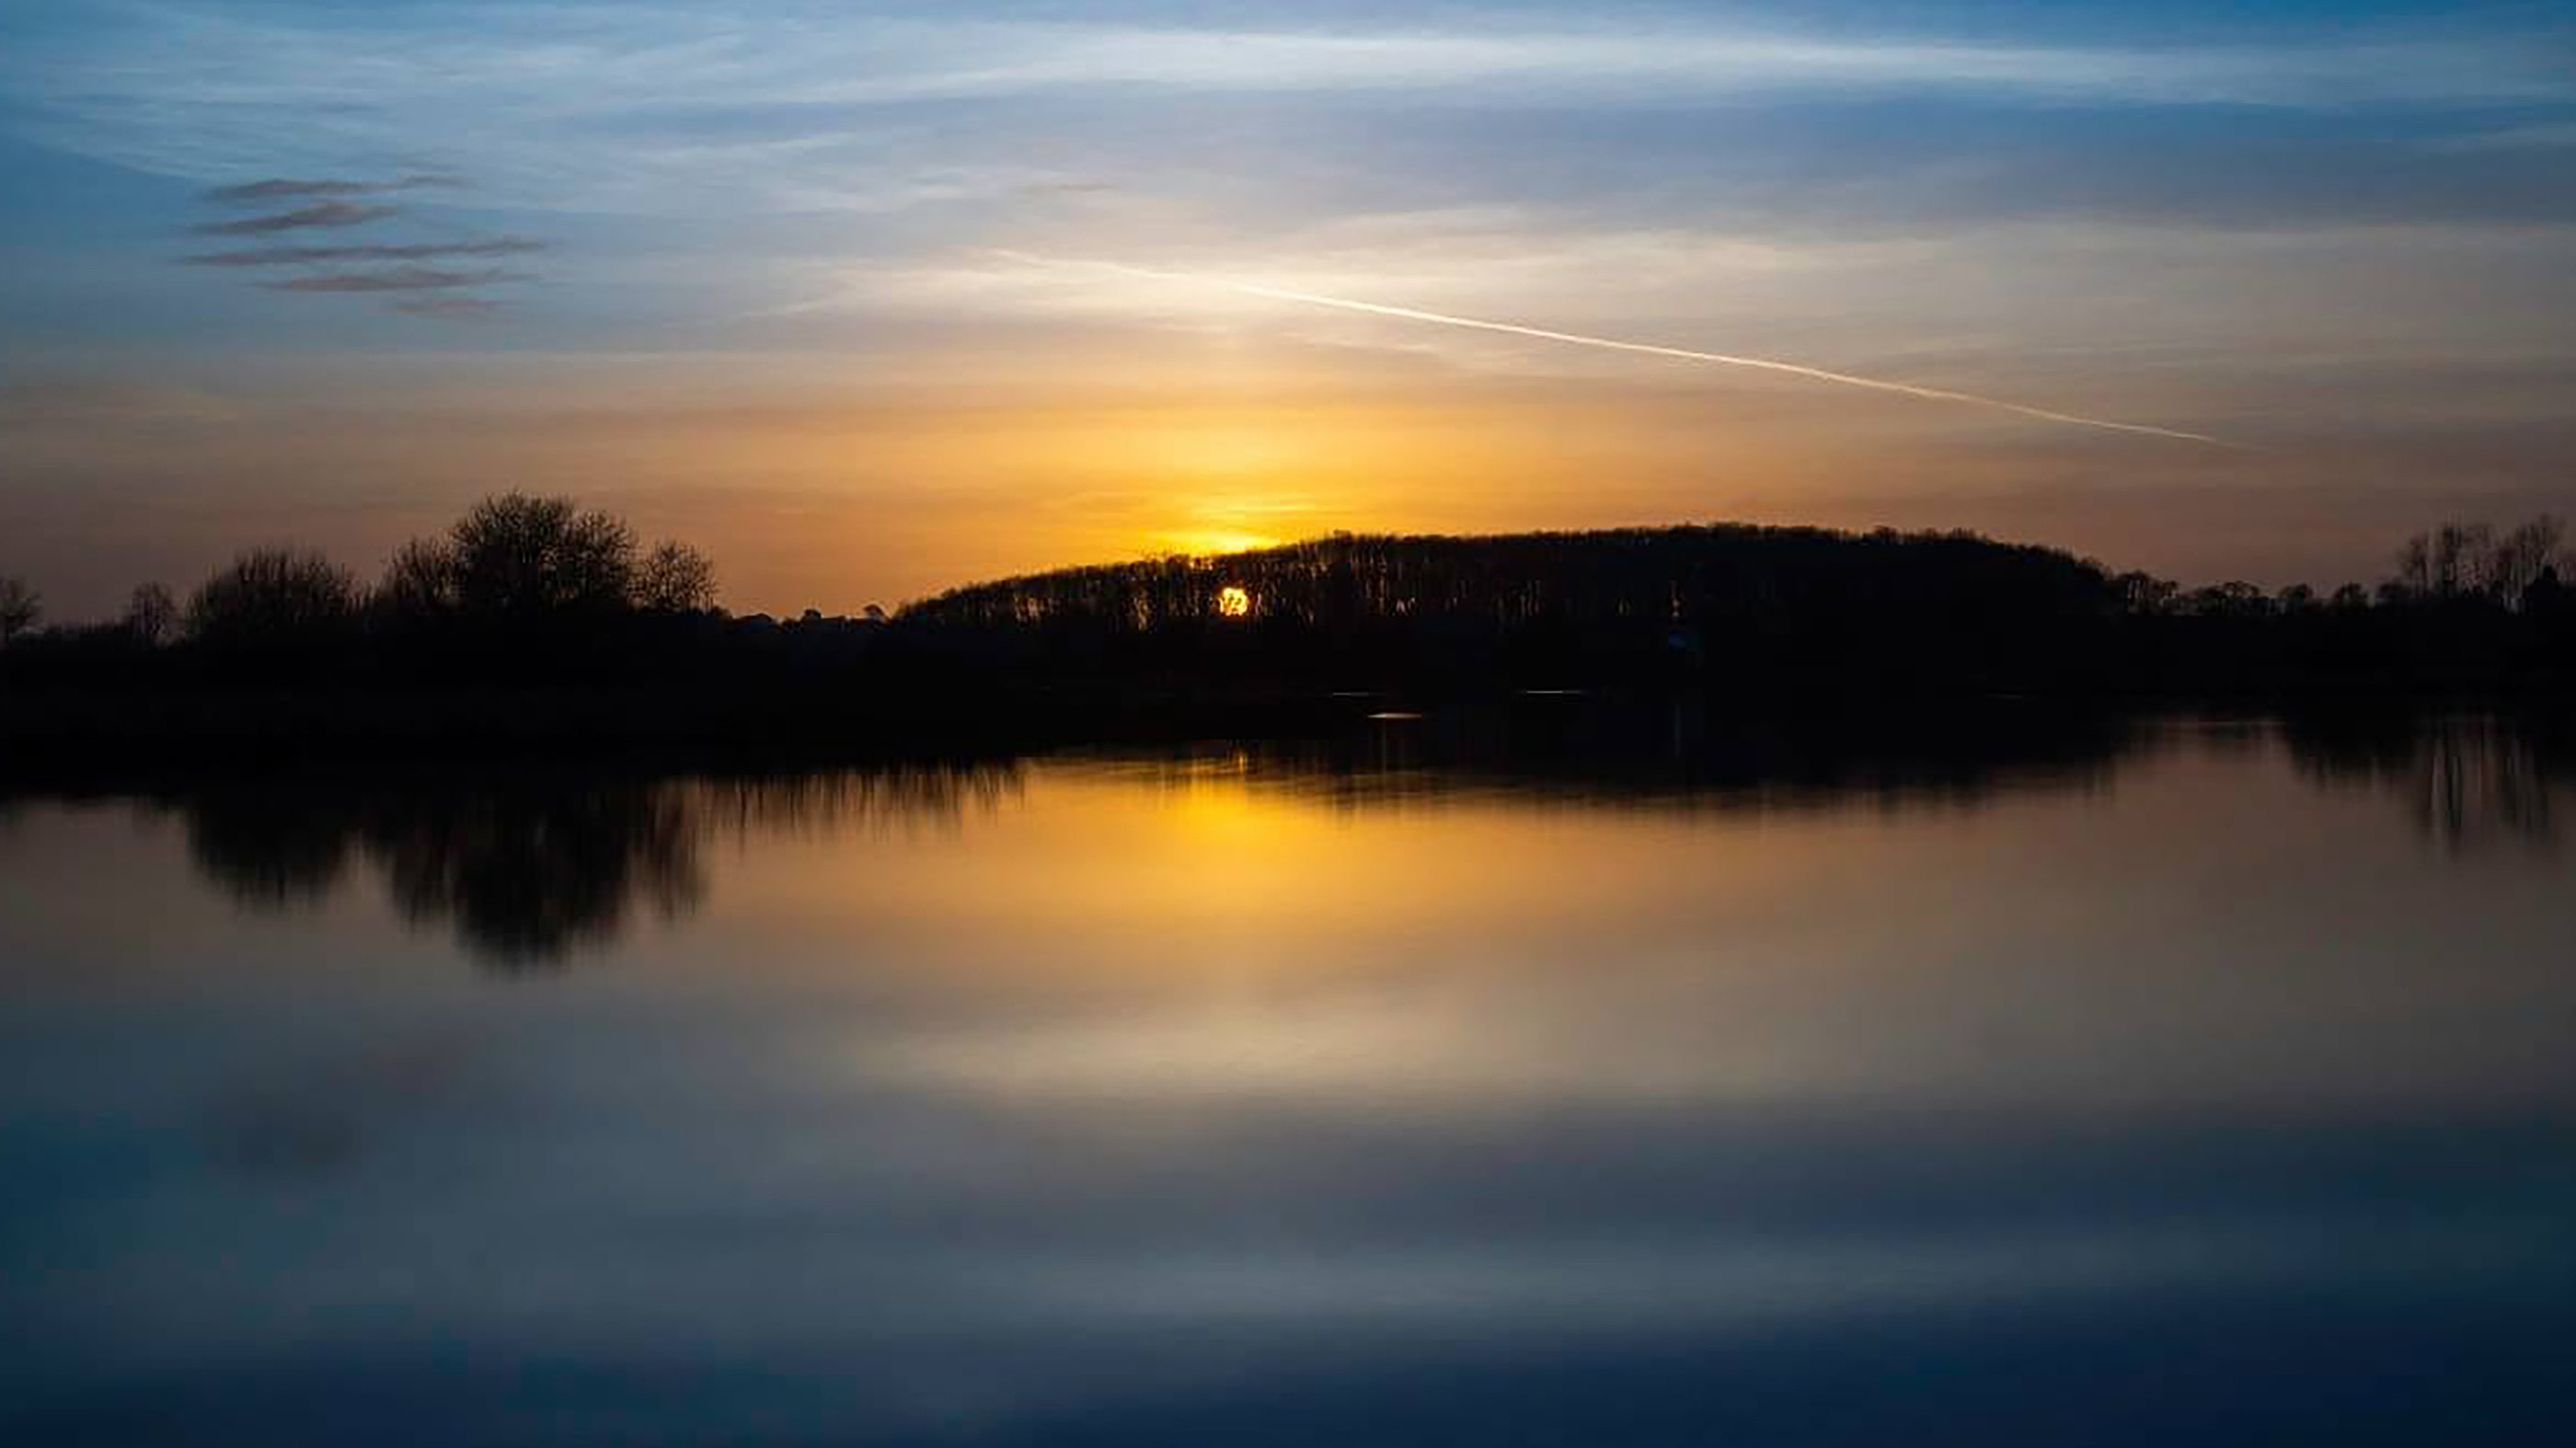
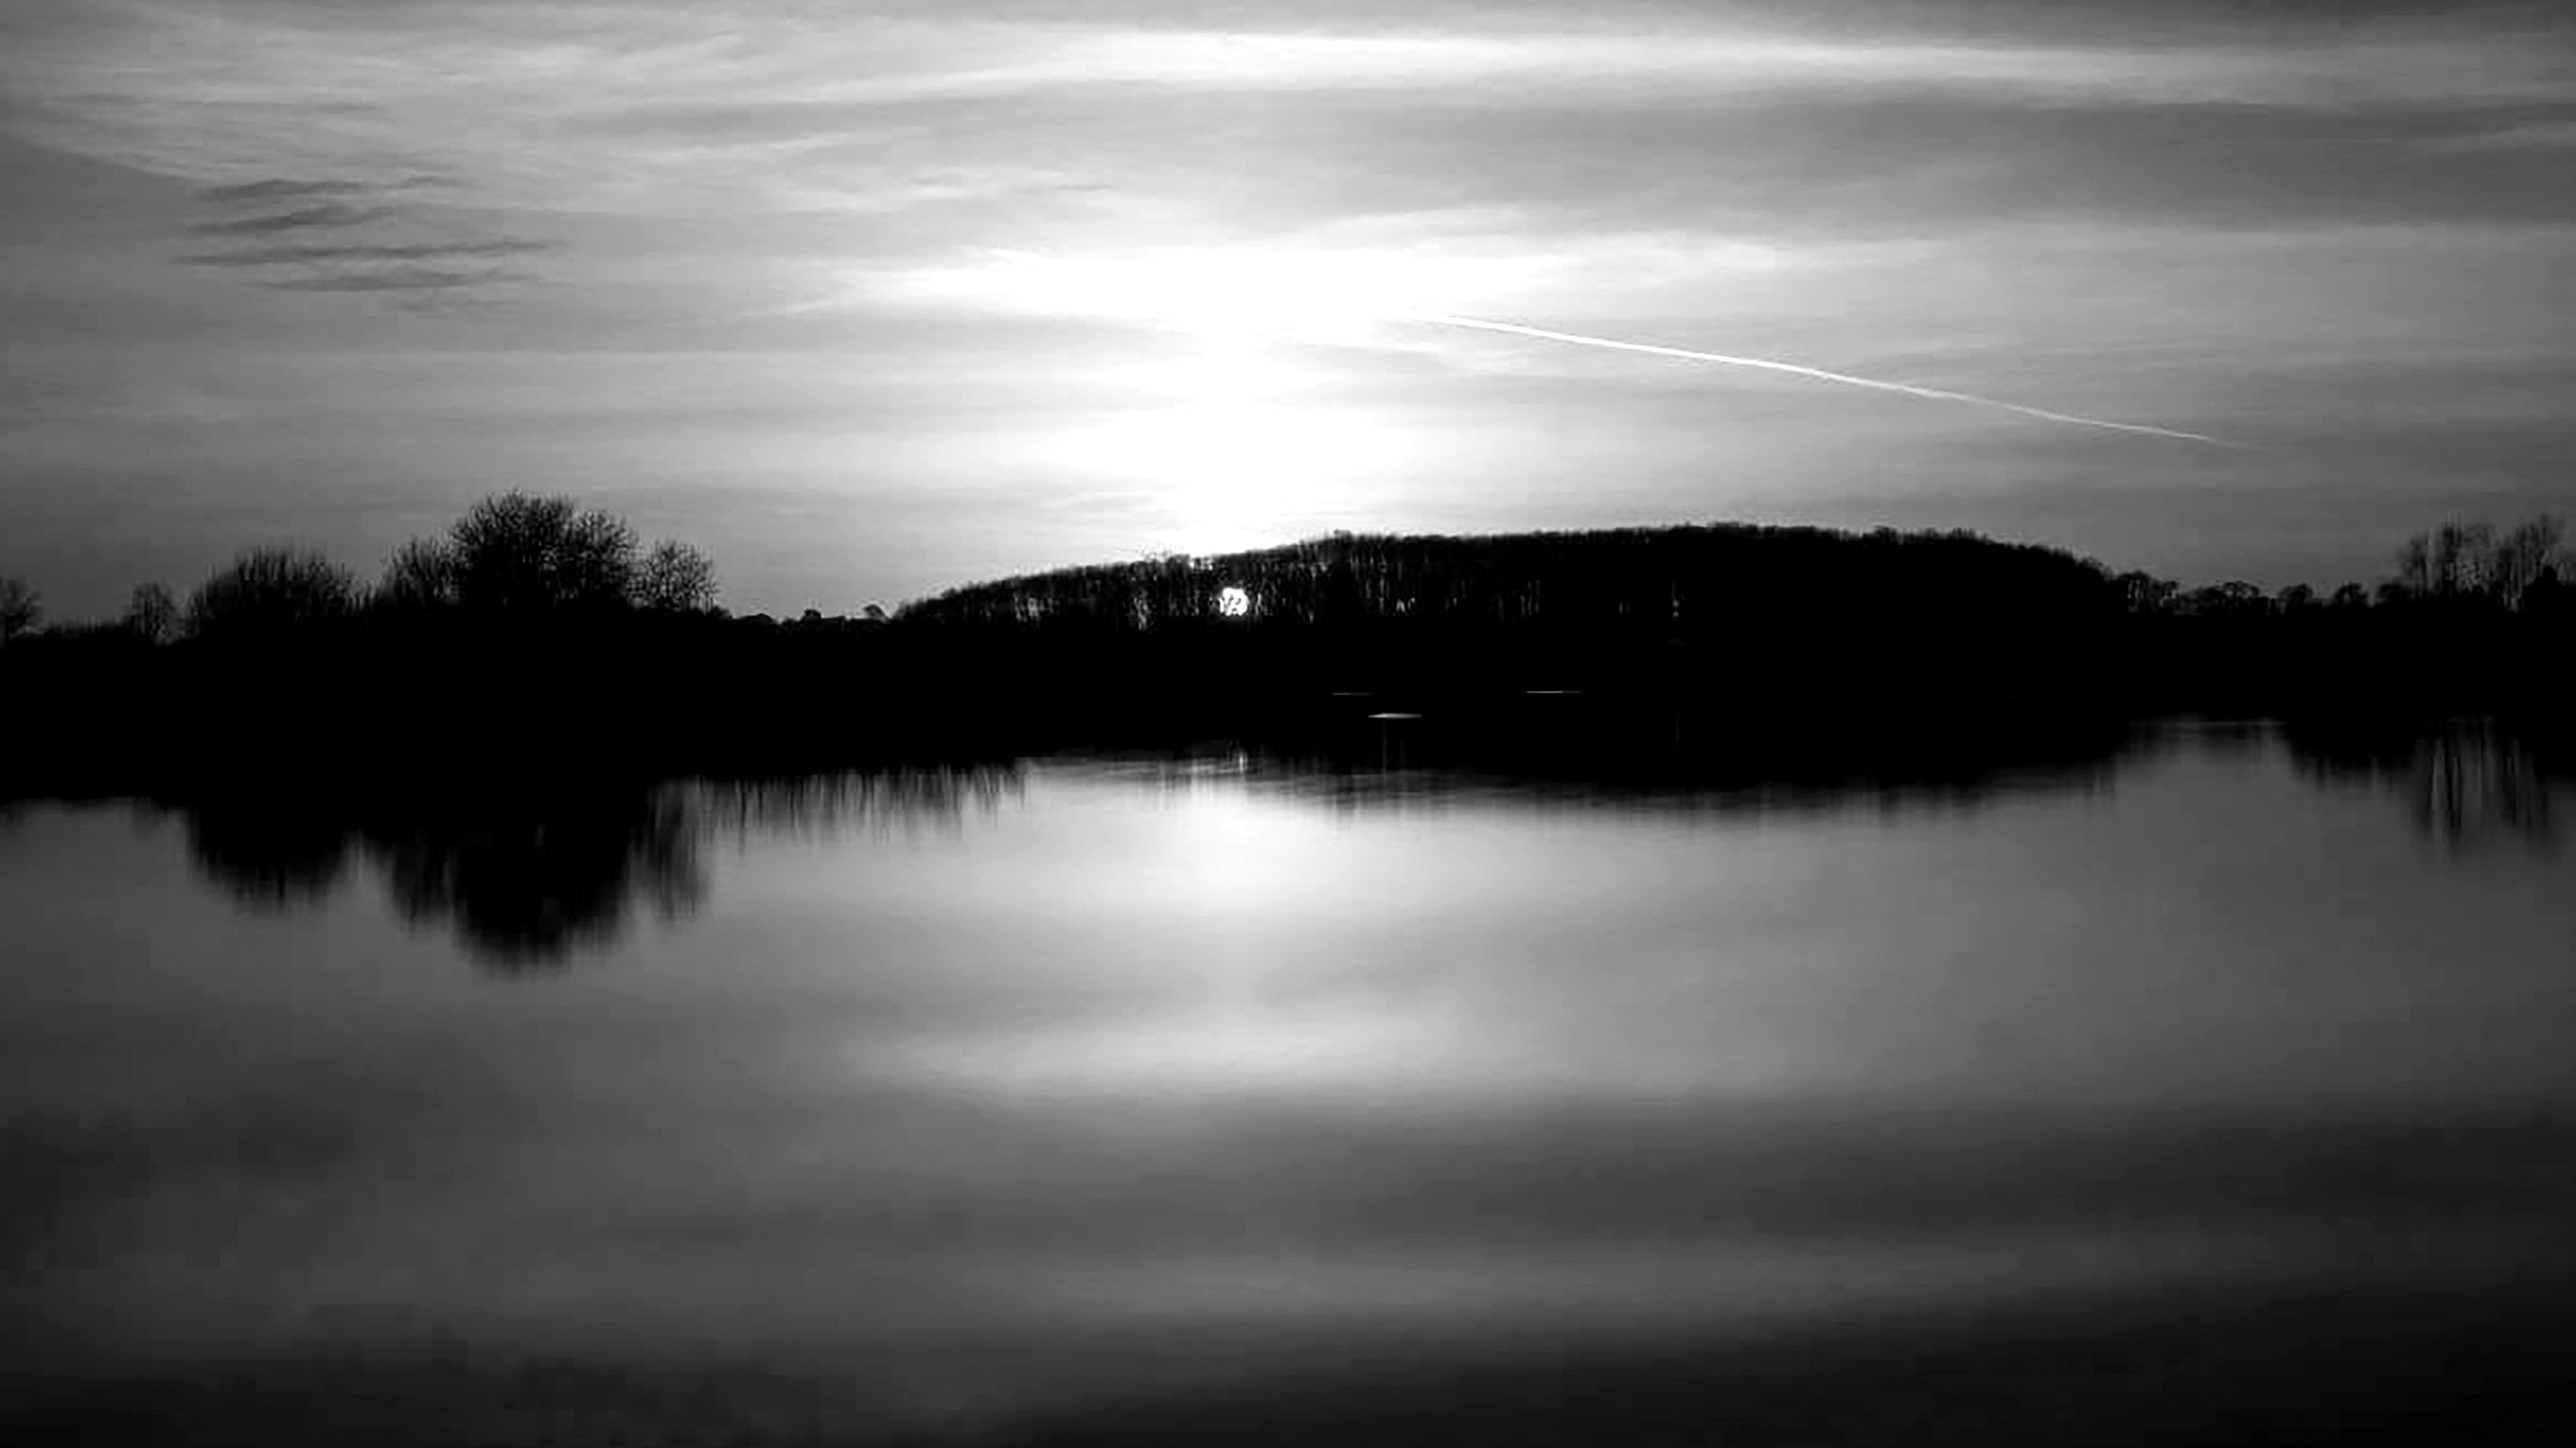
Add files via upload

diff --git a/app/globals.css b/app/globals.css
@@ -832,9 +832,11 @@ body:has(.biz-infeed-complete) .biz-strip { display: none; }
 .site-foot { position: relative; }
 .site-foot::before { content: ""; position: absolute; left: 0; right: 0; top: 0; height: 5px; background: linear-gradient(90deg, var(--aqua) 0 33.333%, #ffffff 33.333% 66.666%, #ff3d52 66.666% 100%); }
 
-/* Banner photo: sunset over Bosworth Water Park. Framed on the horizon line. */
+/* Banner photo: Bosworth Water Park at sunset, in black and white. Framed on the horizon line,
+   with a soft shade on the left so the title and buttons read clearly. */
 .hero-photo { background-position: 50% 40%; }
-@media (max-width: 820px) { .hero-photo { background-position: 47% 45%; } }
-/* This photo is already dusky, so the shading only needs to be light. */
-.hero-photo::after { background: linear-gradient(90deg, rgba(9, 33, 44, 0.72) 0%, rgba(9, 33, 44, 0.5) 34%, rgba(9, 33, 44, 0.12) 58%, rgba(9, 33, 44, 0) 72%, rgba(9, 33, 44, 0.18) 100%); }
-@media (max-width: 820px) { .hero-photo::after { background: linear-gradient(180deg, rgba(9, 33, 44, 0.55), rgba(9, 33, 44, 0.32) 45%, rgba(9, 33, 44, 0.6)); } }
+.hero-photo::after { background: linear-gradient(90deg, rgba(5, 18, 24, 0.7) 0%, rgba(5, 18, 24, 0.5) 34%, rgba(5, 18, 24, 0.12) 58%, rgba(5, 18, 24, 0) 72%, rgba(5, 18, 24, 0.25) 100%); }
+@media (max-width: 820px) {
+  .hero-photo { background-position: 47% 45%; }
+  .hero-photo::after { background: linear-gradient(180deg, rgba(5, 18, 24, 0.55), rgba(5, 18, 24, 0.35) 45%, rgba(5, 18, 24, 0.62)); }
+}
